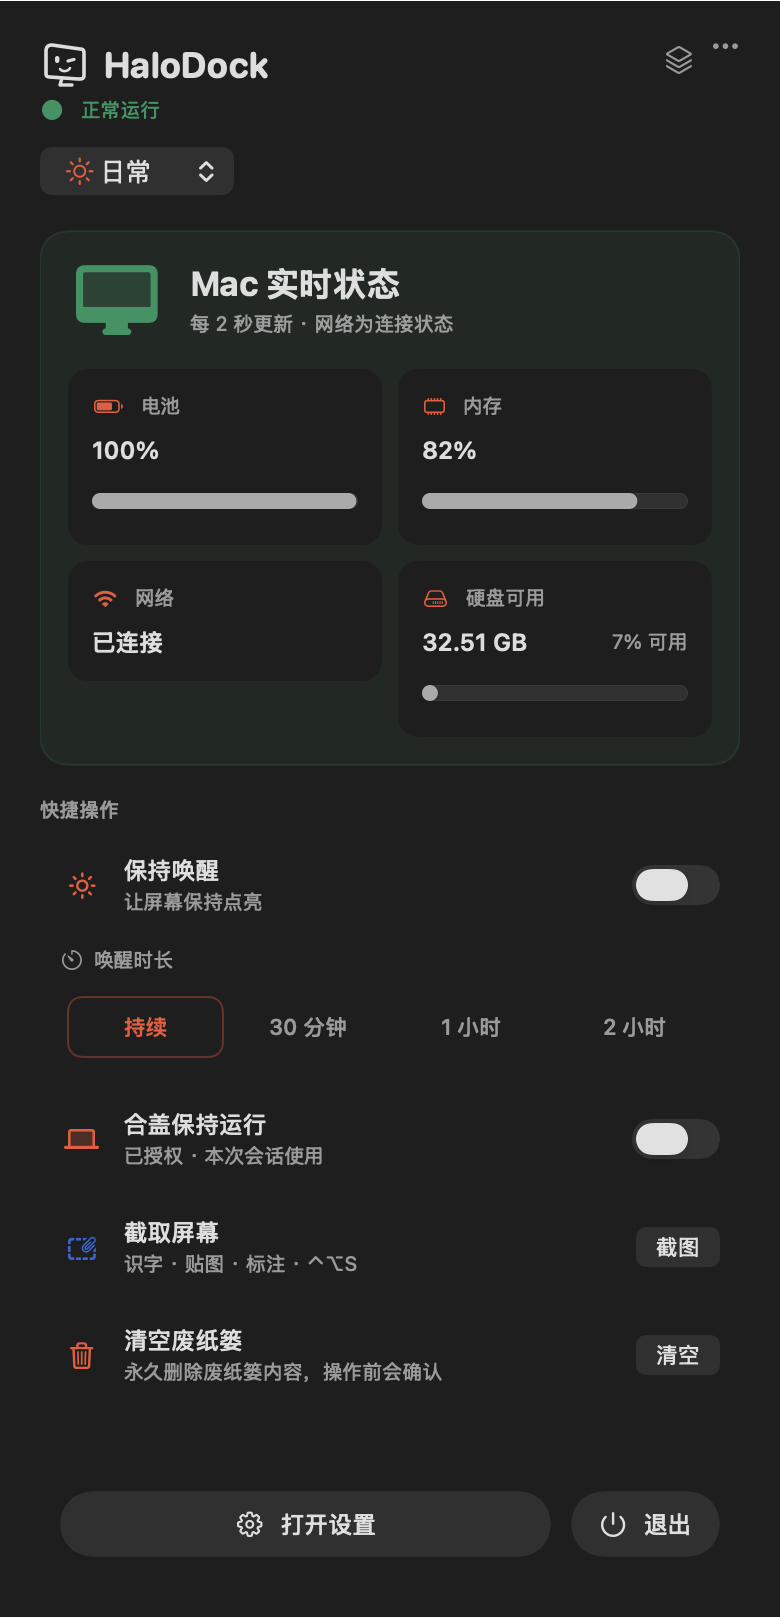
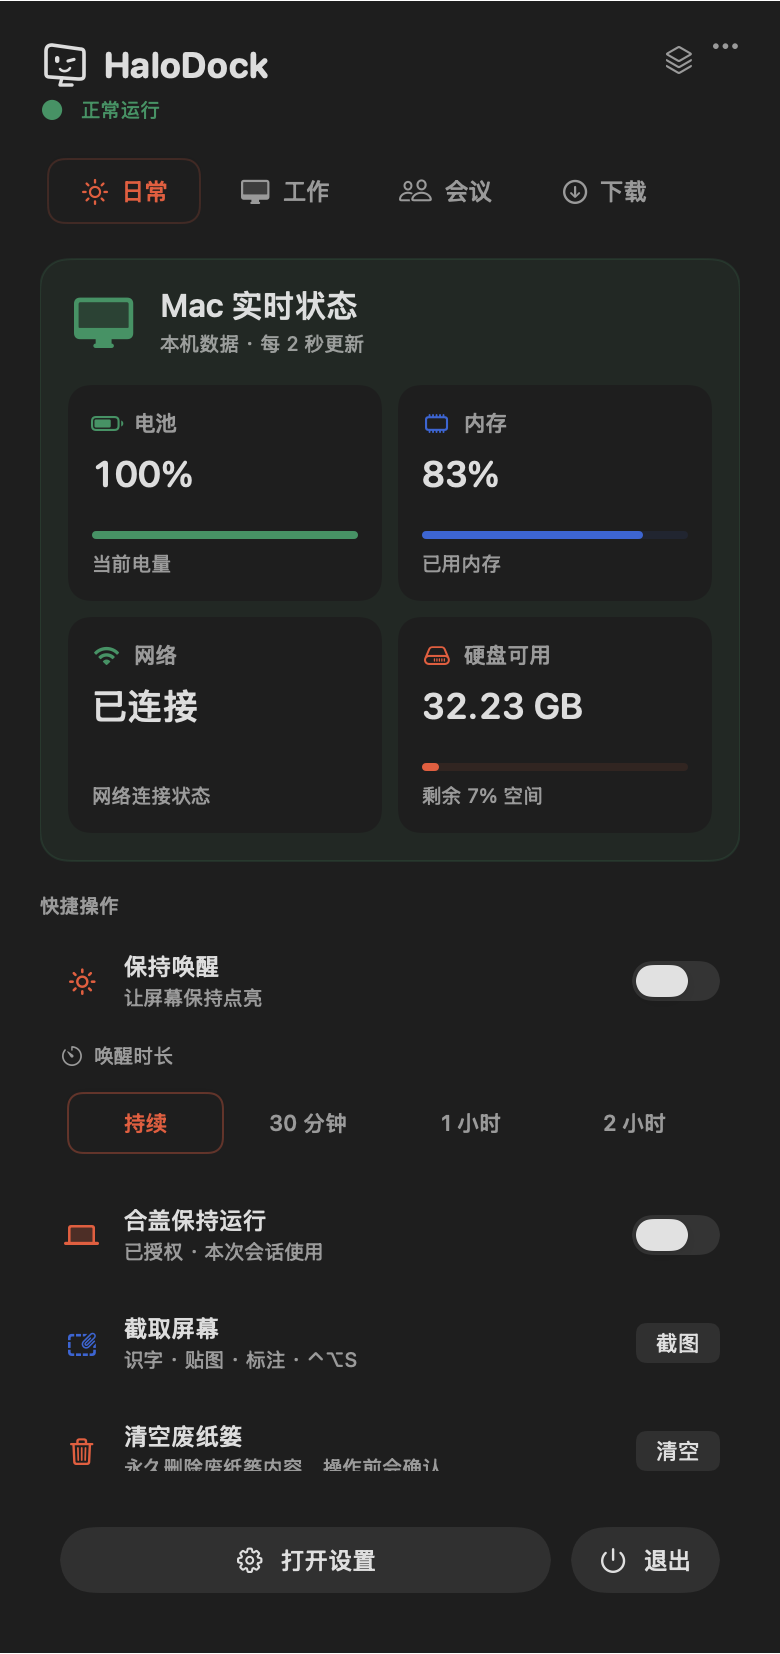
Polish scene selector and align status widget cards

diff --git a/Sources/HaloDock/ScenePanel.swift b/Sources/HaloDock/ScenePanel.swift
@@ -148,19 +148,72 @@ struct StatusWidgetCard: View {
     private var fraction: Double? {
         switch config.widget { case .memory: system.memoryFraction; case .storage: system.storageFreeFraction; case .battery: Double(system.battery.replacingOccurrences(of: "%", with: "")).map { $0 / 100 }; case .network: nil }
     }
+    private var detail: String {
+        switch config.widget {
+        case .battery: fraction == nil ? "电池状态不可用" : "当前电量"
+        case .memory: fraction == nil ? "暂不可用" : "已用内存"
+        case .network: "网络连接状态"
+        case .storage: fraction.map { "剩余 \(Int(($0 * 100).rounded()))% 空间" } ?? "暂不可用"
+        }
+    }
+    private var tint: Color {
+        switch config.widget {
+        case .battery, .network: .haloGreen
+        case .memory: .haloBlue
+        case .storage: .haloOrange
+        }
+    }
+    private var progressLabel: String {
+        switch config.widget {
+        case .memory: "内存已用比例"
+        case .storage: "硬盘可用比例"
+        default: "电池电量"
+        }
+    }
     var body: some View {
-        VStack(alignment: .leading, spacing: config.size == .small ? 4 : 8) {
-            HStack {
-                Image(systemName: config.widget.symbol).foregroundStyle(Color.accentColor)
+        VStack(alignment: .leading, spacing: 0) {
+            HStack(spacing: 6) {
+                Image(systemName: config.widget.symbol).foregroundStyle(tint).frame(width: 15)
                 Text(config.widget.title).foregroundStyle(.secondary)
-                if config.size == .small { Spacer(minLength: 0); Text(value).fontWeight(.semibold).foregroundStyle(.primary) }
-            }.font(.caption)
+                Spacer(minLength: 0)
+                if config.size == .small {
+                    Text(value).fontWeight(.semibold).monospacedDigit().lineLimit(1).minimumScaleFactor(0.85)
+                }
+            }.font(.system(size: 11, weight: .medium))
+
             if config.size != .small {
-                HStack { Text(value).font(config.size == .large ? .title3.bold() : .callout.bold()); Spacer(); if config.widget == .storage, let fraction { Text("\(Int((fraction * 100).rounded()))% 可用").font(.caption).foregroundStyle(.secondary) } }
-                if let fraction { ProgressView(value: min(1, max(0, fraction))).tint(config.widget == .storage ? .haloGreen : .accentColor).accessibilityLabel(config.widget == .memory ? "内存已用比例" : config.widget == .storage ? "硬盘可用比例" : "电池电量") }
-                if config.size == .large { Text(config.widget == .memory ? "已用内存比例 · 不代表内存压力" : config.widget == .storage ? "剩余可用空间 / 磁盘总容量" : config.widget == .network ? "系统网络连接状态" : "当前电池电量").font(.caption2).foregroundStyle(.secondary) }
+                Text(value)
+                    .font(.system(size: config.size == .large ? 23 : 18, weight: .semibold, design: .rounded))
+                    .monospacedDigit()
+                    .lineLimit(1).minimumScaleFactor(0.8)
+                    .padding(.top, 8)
+                Spacer(minLength: 6)
+                if let fraction {
+                    GeometryReader { geometry in
+                        ZStack(alignment: .leading) {
+                            Capsule().fill(tint.opacity(0.10))
+                            Capsule().fill(tint).frame(width: geometry.size.width * min(1, max(0, fraction)))
+                        }
+                    }
+                    .frame(height: 4)
+                    .accessibilityElement(children: .ignore)
+                    .accessibilityLabel(progressLabel)
+                    .accessibilityValue("\(Int((min(1, max(0, fraction)) * 100).rounded()))%")
+                } else {
+                    Color.clear.frame(height: 4).accessibilityHidden(true)
+                }
+                Text(detail)
+                    .font(.system(size: 10)).foregroundStyle(.secondary)
+                    .lineLimit(1).padding(.top, 6)
+                if config.size == .large {
+                    Text(config.widget == .memory ? "本机实时统计 · 不代表内存压力" : config.widget == .storage ? "可用容量 / 磁盘总容量" : config.widget == .network ? "连接状态不代表互联网速度" : "本机实时电池信息")
+                        .font(.caption2).foregroundStyle(.secondary).lineLimit(1).padding(.top, 5)
+                }
             }
-        }.padding(config.size == .small ? 8 : 12).frame(maxWidth: .infinity, alignment: .leading)
-            .background(Color(nsColor: .controlBackgroundColor), in: RoundedRectangle(cornerRadius: 10))
+        }
+        .padding(config.size == .small ? 9 : 12)
+        .frame(maxWidth: .infinity, alignment: .leading)
+        .frame(height: config.size == .small ? 38 : config.size == .medium ? 108 : 140)
+        .background(Color(nsColor: .windowBackgroundColor), in: RoundedRectangle(cornerRadius: 11))
     }
 }

diff --git a/Sources/HaloDock/SceneSwitcher.swift b/Sources/HaloDock/SceneSwitcher.swift
@@ -1,0 +1,46 @@
+import SwiftUI
+
+struct SceneSwitcher: View {
+    @ObservedObject var scenes: ScenePanel
+
+    var body: some View {
+        ScrollViewReader { reader in
+            ScrollView(.horizontal, showsIndicators: false) {
+                HStack(spacing: 4) {
+                    ForEach(scenes.scenes) { scene in
+                        let selected = scenes.current.id == scene.id
+                        Button { scenes.select(scene.id) } label: {
+                            HStack(spacing: 5) {
+                                Image(systemName: scene.symbol)
+                                    .font(.system(size: 12, weight: .medium))
+                                Text(scene.name.isEmpty ? "未命名" : scene.name)
+                                    .font(.system(size: 12, weight: selected ? .semibold : .medium))
+                                    .lineLimit(1)
+                            }
+                            .frame(width: 76, height: 32)
+                            .foregroundStyle(selected ? Color.accentColor : Color.secondary)
+                            .background {
+                                if selected {
+                                    RoundedRectangle(cornerRadius: 8)
+                                        .fill(Color(nsColor: .windowBackgroundColor))
+                                        .shadow(color: .black.opacity(0.06), radius: 2, y: 1)
+                                        .overlay(RoundedRectangle(cornerRadius: 8).stroke(Color.accentColor.opacity(0.18), lineWidth: 1))
+                                }
+                            }
+                            .contentShape(RoundedRectangle(cornerRadius: 8))
+                        }
+                        .buttonStyle(.plain)
+                        .accessibilityLabel("切换到\(scene.name.isEmpty ? "未命名" : scene.name)场景")
+                        .accessibilityAddTraits(selected ? [.isSelected] : [])
+                        .help(scene.name.isEmpty ? "未命名场景" : scene.name)
+                        .id(scene.id)
+                    }
+                }.padding(4)
+            }
+            .frame(height: 40)
+            .background(Color(nsColor: .controlBackgroundColor), in: RoundedRectangle(cornerRadius: 11))
+            .onAppear { reader.scrollTo(scenes.current.id, anchor: .center) }
+            .onChange(of: scenes.current.id) { id in reader.scrollTo(id, anchor: .center) }
+        }
+    }
+}

diff --git a/Sources/HaloDock/HaloDockView.swift b/Sources/HaloDock/HaloDockView.swift
@@ -28,9 +28,7 @@ struct HaloDockView: View {
         VStack(alignment: .leading, spacing: 0) {
             VStack(alignment: .leading, spacing: 0) {
                 header
-                Picker("场景", selection: Binding(get: { scenes.current.id }, set: scenes.select)) {
-                    ForEach(scenes.scenes) { scene in Label(scene.name, systemImage: scene.symbol).tag(scene.id) }
-                }.labelsHidden().pickerStyle(.menu).padding(.top, 12)
+                SceneSwitcher(scenes: scenes).padding(.top, 14)
                 if updates.availableRelease != nil || updates.hasPreparedUpdate {
                     Button {
                         openSettings()
@@ -123,14 +121,14 @@ struct HaloDockView: View {
 
     private var statusSummary: some View {
         VStack(alignment: .leading, spacing: 14) {
-            HStack(spacing: 12) {
+            HStack(spacing: 10) {
                 Image(systemName: "desktopcomputer")
-                    .font(.system(size: 34, weight: .semibold))
+                    .font(.system(size: 25, weight: .medium))
                     .foregroundStyle(Color.haloGreen)
                 VStack(alignment: .leading, spacing: 3) {
                     Text("Mac 实时状态")
-                        .font(.title2.weight(.bold))
-                    Text("每 2 秒更新 · 网络为连接状态")
+                        .font(.system(size: 16, weight: .semibold))
+                    Text("本机数据 · 每 2 秒更新")
                         .font(.caption)
                         .foregroundStyle(.secondary)
                 }
@@ -151,7 +149,7 @@ struct HaloDockView: View {
             RoundedRectangle(cornerRadius: 14)
                 .stroke(Color.haloGreen.opacity(0.16), lineWidth: 1)
         }
-        .padding(.top, 18)
+        .padding(.top, 14)
     }
 
     private func widgetRows(_ widgets: [WidgetConfiguration]) -> [[WidgetConfiguration]] {

diff --git a/website/index.html b/website/index.html
@@ -37,7 +37,7 @@
       <div class="stage-arches" aria-hidden="true"></div>
       <figure class="stage-app">
         <div class="stage-app-bar"><span></span><span></span><span></span><b>HaloDock</b></div>
-        <img src="./assets/panel.png" width="780" height="1560" alt="HaloDock 实际界面：系统状态、唤醒倒计时、截图和剪贴板工具">
+        <img src="./assets/panel.png" width="780" height="1654" alt="HaloDock 实际界面：系统状态、唤醒倒计时、截图和剪贴板工具">
       </figure>
       <div class="mascot-sticker"><span class="mascot-speech">我在，随时。</span><img src="./assets/logo.png" width="130" height="130" alt="歪头屏，HaloDock 的小伙伴"></div>
       <div class="stage-caption"><span>01 — 实际 App 界面</span><span>小小入口，大大顺手。</span></div>
